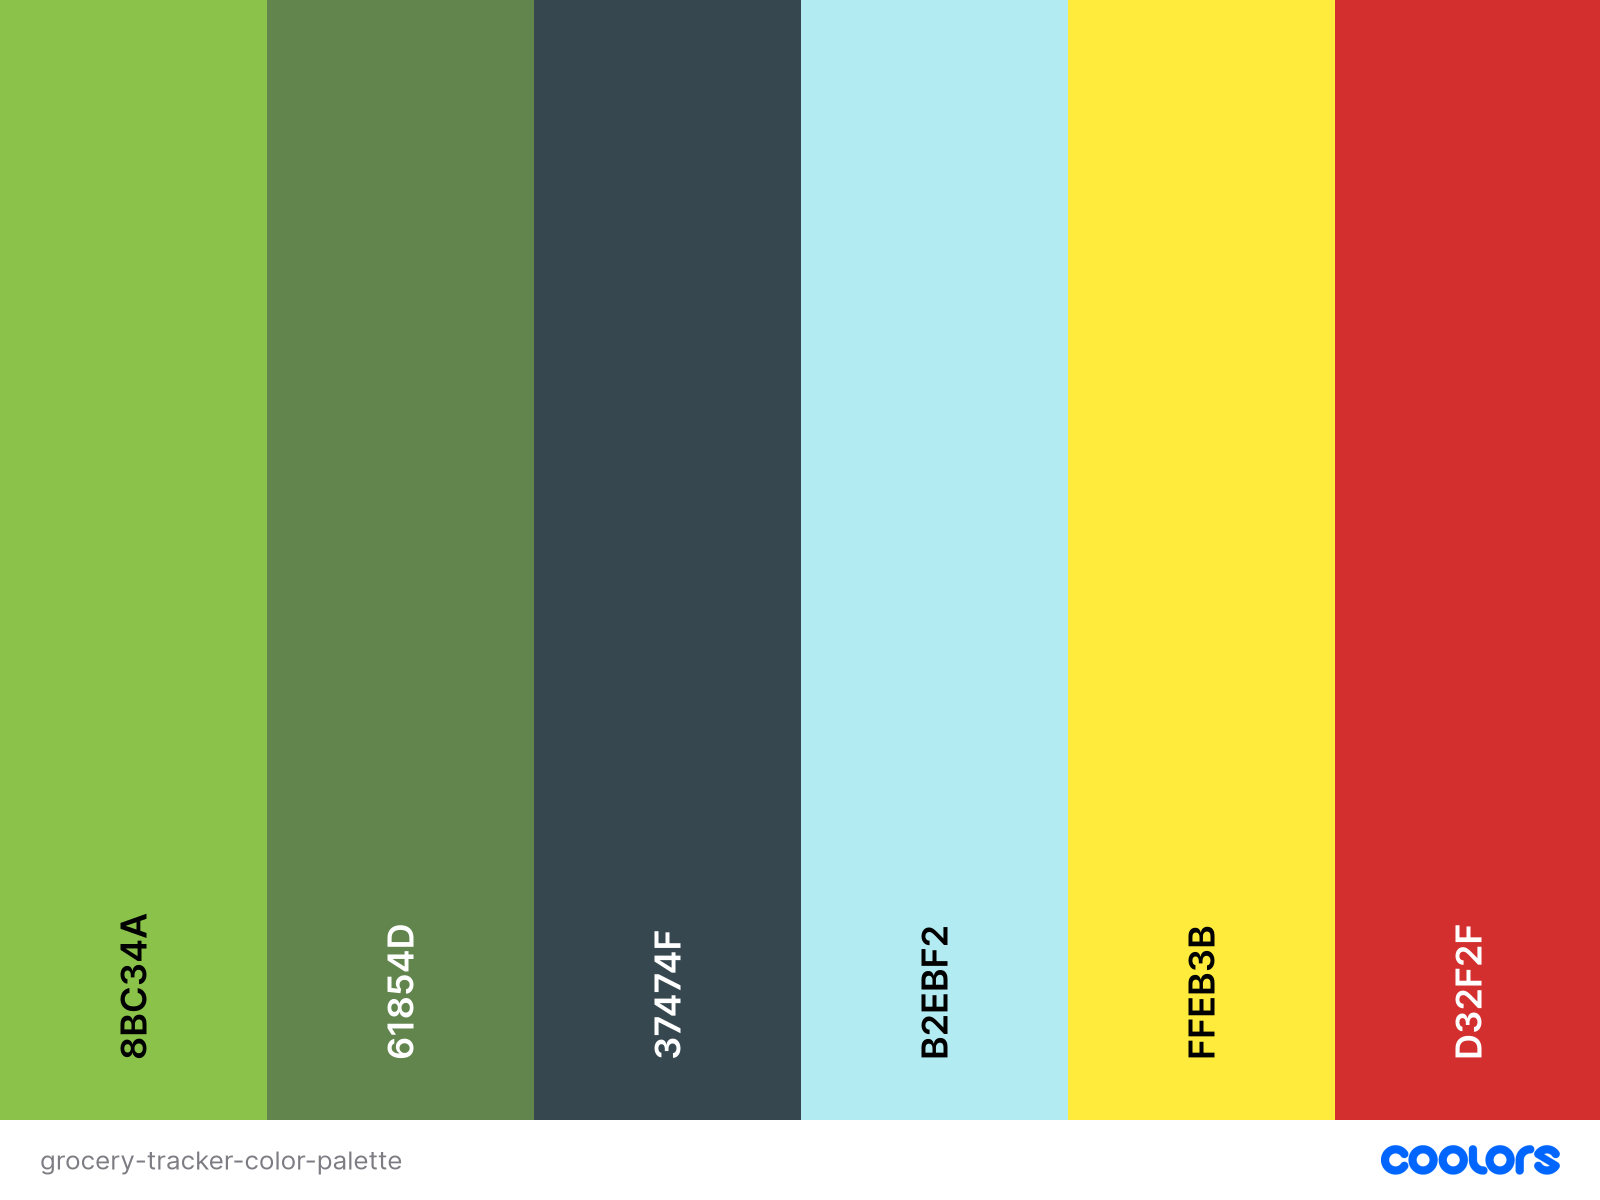
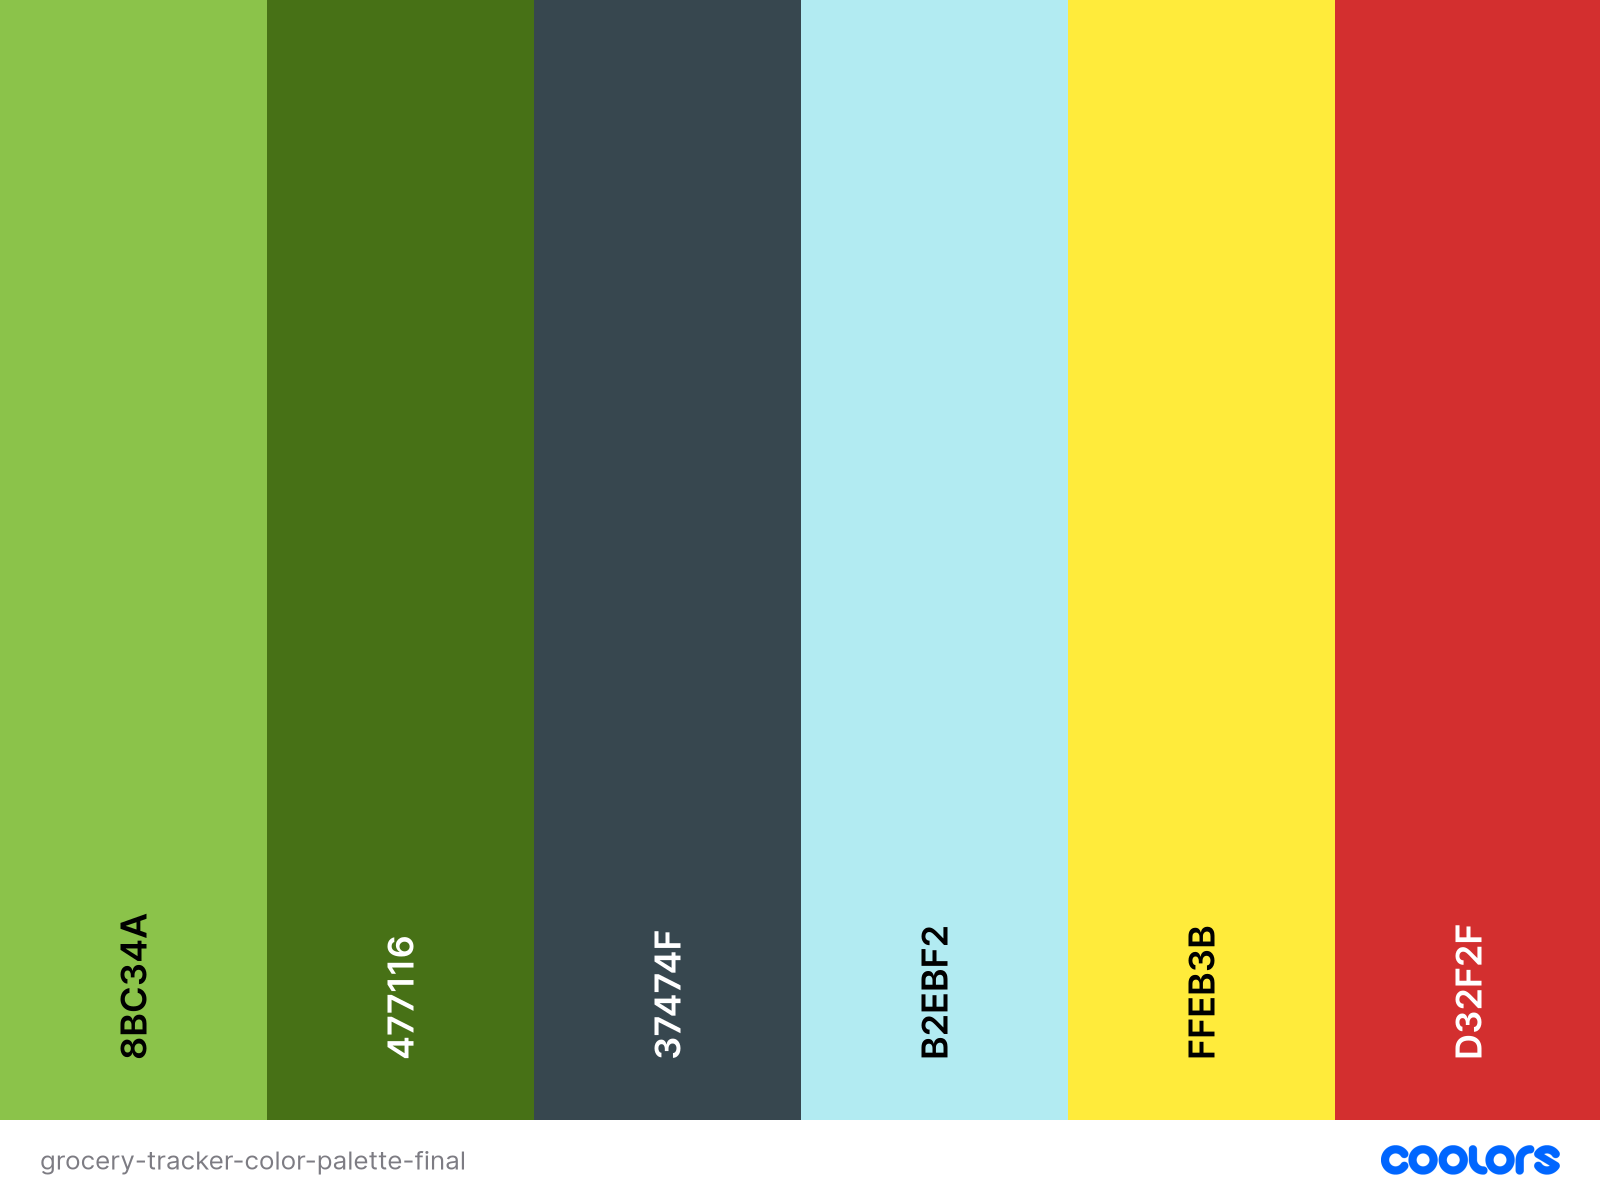
docs: color dark green change and browser test

Changed region(s): [[0.1562, 0.0, 0.3438, 0.9867]]

diff --git a/assets/css/style.css b/assets/css/style.css
@@ -87,7 +87,7 @@ h1 > img {
 
 /* buttons */
 .cta-button {
-  background-color: #61854D;
+  background-color: #477116;
   color: #fcfcfc;
   font-family: "Raleway", sans-serif;
   font-optical-sizing: auto;

diff --git a/README.md b/README.md
@@ -76,7 +76,7 @@ The nature the app, its use and its audience, dictate a linear and simple struct
 
 ### Colour Scheme
 
-The colour scheme was generated with the help of [coolors.co](https://coolors.co/8bc34a-61854d-37474f-b2ebf2-ffeb3b-d32f2f) colour palette generator. The choice was made on the basis of getting a few different colours to resemble how a grocery bag usually has different colours. A choice of vibrant colours with contrast where required to make some buttons and app elements stick out more for an easier and clearer use while on the go.
+The colour scheme was generated with the help of [coolors.co](https://coolors.co/8bc34a-477116-37474f-b2ebf2-ffeb3b-d32f2f) colour palette generator. The choice was made on the basis of getting a few different colours to resemble how a grocery bag usually has different colours. A choice of vibrant colours with contrast where required to make some buttons and app elements stick out more for an easier and clearer use while on the go.
 
 ![screenshot](documentation/grocery-tracker-color-palette-final.png)
 
@@ -231,6 +231,15 @@ A test was carried out on the deployed website, for the relevant areas using the
 | Tracker           | Desktop | ![screenshot](documentation/testing/lighthouse-audit-grocery-tracker-desktop.png)   | No major problems   |
 
 ### Browser Compatibility
+
+The deployed project was tested on Chrome and Safari for compatibility issues.
+
+| Browser | Index | Tracker | Notes |
+| ------- | ------|---------|-------|
+| Chrome Mobile |![screenshot](documentation/testing/grocery-chrome-mobile-index.png)|![screenshot](documentation/testing/grocery-chrome-mobile-tracker.png)|No issues noted |
+| Chrome Desktop |            |            |         |
+| Safari Mobile  | ![screenshot](documentation/testing/grocery-safari-mobile-index.png)| ![screenshot](documentation/testing/grocery-safari-mobile-tracker.png) | No issues noted         |
+| Safari Desktop |            |            |         |
 
 ### Device Bug Testing - Responsiveness
 
